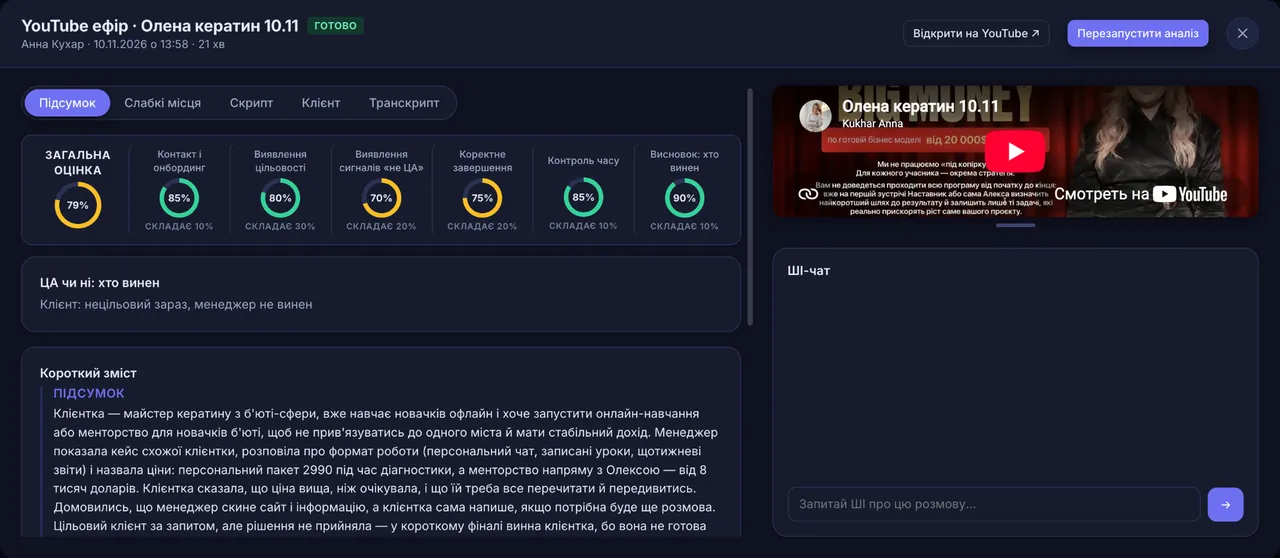
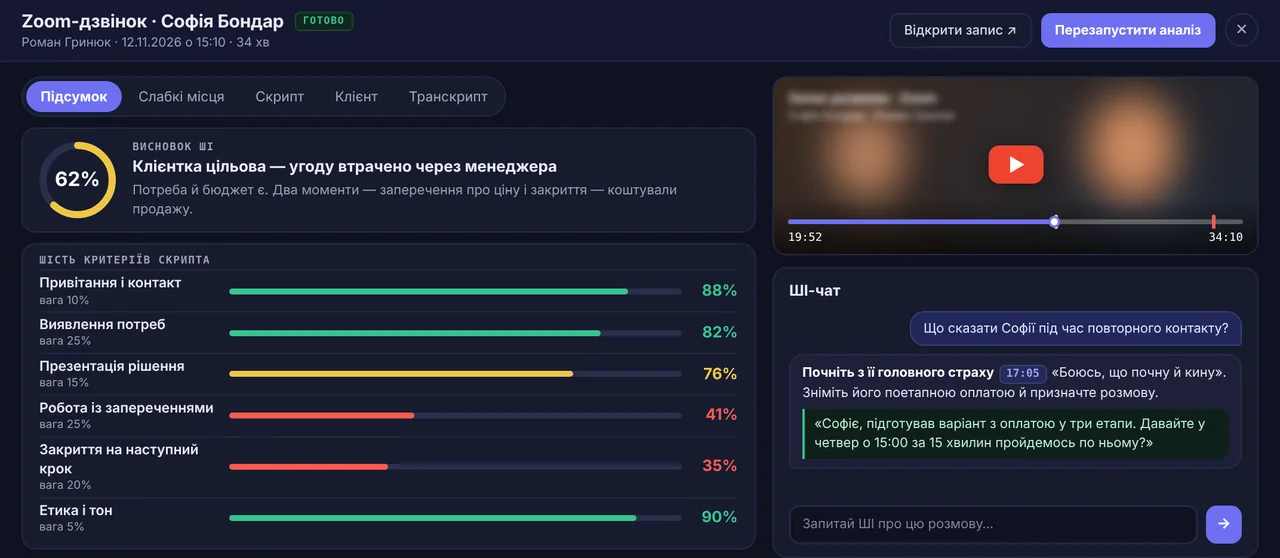
Замінено скріни на змодельовані дані, виправлено рух лупи, прибрано старі зображення з реальними іменами
Claude-Session: https://claude.ai/code/session_01QjK6nYwkpTHjCv4R5ViDVx

diff --git a/index.html b/index.html
@@ -103,7 +103,7 @@ html[data-lang=ru] .hero h1{font-size:clamp(36px,min(4.5vw,8.6vh),74px)}
 @keyframes stIn{from{opacity:0;transform:translateY(5px)}}
 /* call timeline */
 .tl{grid-column:1/-1;position:relative;height:38px;margin-top:8px;border-bottom:1px solid var(--line)}
-.tl::before{content:"";position:absolute;left:0;right:0;bottom:0;height:7px;background:linear-gradient(90deg,var(--line) 1px,transparent 1px) 0 0/calc(100%/22) 100%}
+.tl::before{content:"";position:absolute;left:0;right:0;bottom:0;height:7px;background:linear-gradient(90deg,var(--line) 1px,transparent 1px) 0 0/calc(100%/34) 100%}
 .tl span{position:absolute;bottom:11px;font:400 11px var(--f-mono);color:var(--muted);transform:translateX(-1px)}
 .tl .pin{bottom:0;top:auto;height:24px;width:1.5px;background:var(--accent);transform:none;transition:height .35s cubic-bezier(.2,.8,.2,1)}
 .tl .pin::after{content:attr(data-t);position:absolute;bottom:100%;left:50%;transform:translateX(-50%);font:500 11px var(--f-mono);color:var(--accent-text);padding-bottom:2px;white-space:nowrap}
@@ -389,20 +389,19 @@ footer .wrap{display:flex;justify-content:space-between;gap:16px;flex-wrap:wrap}
     </div>
     <div class="stage" id="stage">
       <div class="rig" id="rig">
-        <div class="sheet sheet-front"><img src="img/hero-weak.webp" srcset="img/hero-weak-900.webp 900w, img/hero-weak.webp 1543w" sizes="(max-width:940px) 100vw, 1100px" fetchpriority="high" decoding="async" width="1543" height="1084" data-uk="Картка розмови: слабкі місця з цитатами й таймкодами" alt="">
-          <i class="hp" data-hp="a1" style="left:23%;top:33.4%"></i><i class="hp" data-hp="a2" style="left:15%;top:51.9%"></i><i class="hp" data-hp="a3" style="left:54%;top:51.9%"></i>
-          <i class="hp" data-hp="b1" style="left:15%;top:88.2%"></i><i class="hp" data-hp="b2" style="left:47%;top:88.2%"></i>
+        <div class="sheet sheet-front"><img src="img/hero-weak.webp" srcset="img/hero-weak-900.webp 900w, img/hero-weak.webp 1543w" sizes="(max-width:940px) 100vw, 1100px" fetchpriority="high" decoding="async" width="1543" height="1084" data-uk="Слабкі місця розмови: цитата, таймкод і що сказати замість" alt="">
+          <i class="hp" data-hp="a1" style="left:3.1%;top:17.2%"></i><i class="hp" data-hp="a1e" style="left:49.2%;top:17.2%"></i><i class="hp" data-hp="a2" style="left:4.6%;top:34.8%"></i><i class="hp" data-hp="a2e" style="left:45%;top:34.8%"></i><i class="hp" data-hp="a3" style="left:51.1%;top:34.6%"></i><i class="hp" data-hp="a3e" style="left:91.6%;top:34.6%"></i><i class="hp" data-hp="b0" style="left:3.1%;top:49.8%"></i><i class="hp" data-hp="b0e" style="left:42.1%;top:49.8%"></i><i class="hp" data-hp="b1" style="left:4.6%;top:62.7%"></i><i class="hp" data-hp="b1e" style="left:43.9%;top:62.7%"></i><i class="hp" data-hp="b2" style="left:51.1%;top:64.1%"></i><i class="hp" data-hp="b2e" style="left:92.7%;top:64.1%"></i>
         </div>
       </div>
       <p class="status" aria-live="off">
-        <span class="st-0"><span lang="uk">Реальна картка розмови із системи.</span> <span class="hov"><span lang="uk">Наведіть курсор — лупа ваша.</span></span></span>
-        <span class="st-a"><b class="tc">19:52</b><span lang="uk">Клієнтка чекала меншої ціни — заперечення залишилось без уточнення.</span></span>
-        <span class="st-b"><b class="tc">21:02</b><span lang="uk">Домовленість — «скину сайт, а ви самі напишете». Наступний крок без дати.</span></span>
+        <span class="st-0"><span lang="uk">Приклад розбору на змодельованій розмові.</span> <span class="hov"><span lang="uk">Наведіть курсор — лупа ваша.</span></span></span>
+        <span class="st-a"><b class="tc">19:52</b><span lang="uk">Заперечення про ціну — менеджер одразу знизив ціну, не уточнивши.</span></span>
+        <span class="st-b"><b class="tc">31:40</b><span lang="uk">Розмова закінчилась на «напишу, коли вирішу». Наступний крок без дати.</span></span>
       </p>
     </div>
     <div class="tl" aria-hidden="true">
-      <span style="left:0">00:00</span><span style="left:22.727%">05:00</span><span style="left:45.455%">10:00</span><span style="left:68.182%">15:00</span>
-      <span class="pin pin-a" data-t="19:52" style="left:90.3%"></span><span class="pin pin-b" data-t="21:02" style="left:95.6%"></span>
+      <span style="left:0">00:00</span><span style="left:14.706%">05:00</span><span style="left:29.412%">10:00</span><span style="left:44.118%">15:00</span>
+      <span class="pin pin-a" data-t="19:52" style="left:58.4%"></span><span class="pin pin-b" data-t="31:40" style="left:93.1%"></span>
     </div>
   </div>
   <div class="mag" id="mag" aria-hidden="true"><div class="mag-view"><div class="mag-clone" id="magClone"></div></div><span class="mag-handle"></span><span class="mag-ring"></span></div>
@@ -421,7 +420,7 @@ footer .wrap{display:flex;justify-content:space-between;gap:16px;flex-wrap:wrap}
 
 <section class="sec" id="call"><div class="wrap">
   <div class="sec-head" data-rv><h2><span lang="uk">Одна розмова — п'ять відповідей</span></h2>
-    <p class="sec-intro"><span lang="uk">Це реальна картка із системи. Ліворуч — розбір, праворуч — запис розмови й ШІ-чат, якому можна поставити будь-яке питання про неї.</span></p></div>
+    <p class="sec-intro"><span lang="uk">Так виглядає картка розмови (приклад на змодельованих даних). Ліворуч — розбір, праворуч — запис розмови й ШІ-чат, якому можна поставити будь-яке питання про неї.</span></p></div>
   <div data-rv>
     <div class="vt" role="tablist" id="vt">
       <button role="tab" aria-selected="true"><span lang="uk">Підсумок</span></button>
@@ -432,11 +431,11 @@ footer .wrap{display:flex;justify-content:space-between;gap:16px;flex-wrap:wrap}
       <i class="ind" id="ind"></i>
     </div>
     <div class="vqa-box" id="vqa">
-      <div class="vqa on"><h3><span lang="uk">Як пройшла розмова і хто винен, що клієнт не купив?</span></h3><p><span lang="uk">Загальна оцінка, шість критеріїв з вагами і короткий зміст. Окремий висновок: провал менеджера чи нецільовий клієнт. Тут — 79%, клієнтка зараз нецільова, менеджер не винен.</span></p></div>
-      <div class="vqa"><h3><span lang="uk">Де саме менеджер недотиснув?</span></h3><p><span lang="uk">Кожна помилка з поясненням, порадою і дослівною цитатою. Тут дві: заперечення про ціну залишилось без уточнення (<span class="tc">19:52</span>) і наступний крок без конкретного часу (<span class="tc">21:02</span>).</span></p></div>
+      <div class="vqa on"><h3><span lang="uk">Як пройшла розмова і хто винен, що клієнт не купив?</span></h3><p><span lang="uk">Загальна оцінка, шість критеріїв з вагами і короткий зміст. Окремий висновок: провал менеджера чи нецільовий клієнт. Тут — 62%: клієнтка цільова, угоду втрачено через два моменти розмови.</span></p></div>
+      <div class="vqa"><h3><span lang="uk">Де саме менеджер недотиснув?</span></h3><p><span lang="uk">Кожна помилка з поясненням, порадою і дослівною цитатою. Тут дві: заперечення про ціну без уточнення (<span class="tc">19:52</span>) і наступний крок без конкретного часу (<span class="tc">31:40</span>). До кожної — готова фраза, що сказати замість.</span></p></div>
       <div class="vqa"><h3><span lang="uk">Що зі скрипта виконано, а що пропущено?</span></h3><p><span lang="uk">Оцінка за кожним критерієм вашого скрипта з його вагою. Клік по критерію показує, чому оцінка саме така.</span></p></div>
       <div class="vqa"><h3><span lang="uk">Що болить клієнту і чи готовий він купити?</span></h3><p><span lang="uk">Профіль клієнта, готовність до покупки і болі — кожна з цитатою й таймкодом. Готова основа для наступного дзвінка.</span></p></div>
-      <div class="vqa"><h3><span lang="uk">Що було сказано дослівно?</span></h3><p><span lang="uk">Повна розшифровка з таймкодами. На скріні той самий момент із ціною — <span class="tc">19:52</span>. Текст можна скопіювати або завантажити.</span></p></div>
+      <div class="vqa"><h3><span lang="uk">Що було сказано дослівно?</span></h3><p><span lang="uk">Повна розшифровка з таймкодами. У прикладі — момент із ціною — <span class="tc">19:52</span>. Текст можна скопіювати або завантажити.</span></p></div>
     </div>
     <div class="shot card-shot" id="shots">
       <img class="on" src="img/card-summary.webp" srcset="img/card-summary-1280.webp 1280w, img/card-summary.webp 2144w" sizes="(max-width:940px) 1300px, 1124px" loading="lazy" decoding="async" width="2144" height="935" data-uk="Картка розмови, вкладка «Підсумок»: оцінки за критеріями, запис і ШІ-чат" alt="">
@@ -463,7 +462,7 @@ footer .wrap{display:flex;justify-content:space-between;gap:16px;flex-wrap:wrap}
   </div>
   <div data-rv>
     <div class="shot chat-shot"><img src="img/ai-chat.webp" srcset="img/ai-chat-720.webp 720w, img/ai-chat.webp 1112w" sizes="(max-width:940px) 92vw, 560px" width="1112" height="1004" loading="lazy" decoding="async" data-uk="ШІ-чат: питання українською і відповідь з цитатами та таймкодами" alt=""></div>
-    <p class="chat-note"><span lang="uk">Приклад із системи: питання й відповідь ШІ по одній із розмов.</span></p>
+    <p class="chat-note"><span lang="uk">Приклад: питання й відповідь ШІ по змодельованій розмові.</span></p>
   </div>
 </div></section>
 
@@ -645,11 +644,18 @@ footer .wrap{display:flex;justify-content:space-between;gap:16px;flex-wrap:wrap}
   var seq=[
     {k:'ph',fx:.14,z:1.42,st:'0',move:1000,hold:250},
     {k:'ph',fx:.86,z:1.42,st:'0',move:1900,hold:400},
-    {k:'a1',fx:0,z:2,st:'a',move:1300,hold:900},
-    {k:'a2',fx:0,z:2,st:'a',move:700,hold:150},
-    {k:'a3',fx:0,z:2,st:'a',move:2100,hold:600},
-    {k:'b1',fx:0,z:2,st:'b',move:1200,hold:200},
-    {k:'b2',fx:0,z:2,st:'b',move:1900,hold:900}
+    {k:'a1',fx:0,z:2,st:'a',move:1100,hold:150},
+    {k:'a1e',fx:0,z:2,st:'a',move:1700,hold:300},
+    {k:'a2',fx:0,z:2,st:'a',move:900,hold:100},
+    {k:'a2e',fx:0,z:2,st:'a',move:1500,hold:300},
+    {k:'a3',fx:0,z:2,st:'a',move:700,hold:100},
+    {k:'a3e',fx:0,z:2,st:'a',move:1600,hold:500},
+    {k:'b0',fx:0,z:2,st:'b',move:1300,hold:150},
+    {k:'b0e',fx:0,z:2,st:'b',move:1600,hold:300},
+    {k:'b1',fx:0,z:2,st:'b',move:800,hold:100},
+    {k:'b1e',fx:0,z:2,st:'b',move:1500,hold:300},
+    {k:'b2',fx:0,z:2,st:'b',move:700,hold:100},
+    {k:'b2e',fx:0,z:2,st:'b',move:1700,hold:900}
   ];
   var narrow=window.matchMedia?matchMedia('(max-width:940px)'):{matches:false};
   function next(i){do{i=(i+1)%seq.length}while(narrow.matches&&seq[i].k==='ph');return i}
@@ -663,7 +669,7 @@ footer .wrap{display:flex;justify-content:space-between;gap:16px;flex-wrap:wrap}
     clone.style.transform='translate('+(R-(cur.x-ox)*cur.z)+'px,'+(R-(cur.y-oy)*cur.z)+'px) scale('+cur.z+')';
   }
   function nearest(hr){var best='0',bd=130;
-    [['a','a1'],['a','a2'],['a','a3'],['b','b1'],['b','b2']].forEach(function(p){var q=pt(hp(p[1]),0,hr),d=Math.hypot(q.x-cur.x,q.y-cur.y);if(d<bd){bd=d;best=p[0]}});
+    [['a','a1'],['a','a1e'],['a','a2'],['a','a2e'],['a','a3'],['a','a3e'],['b','b0'],['b','b0e'],['b','b1'],['b','b1e'],['b','b2'],['b','b2e']].forEach(function(p){var q=pt(hp(p[1]),0,hr),d=Math.hypot(q.x-cur.x,q.y-cur.y);if(d<bd){bd=d;best=p[0]}});
     return best}
   function frame(now){
     if(!running)return;
@@ -686,7 +692,7 @@ footer .wrap{display:flex;justify-content:space-between;gap:16px;flex-wrap:wrap}
   }
   function run(){if(running||!started||!visible||document.hidden)return;running=true;requestAnimationFrame(function(n){last=n;from={x:cur.x,y:cur.y,z:cur.z};t0=n;frame(n)})}
   function stop(){running=false}
-  function place(){var hr=hero.getBoundingClientRect(),a=pt(hp('a2'),0,hr),b=pt(hp('a3'),0,hr);cur.x=(a.x+b.x)/2;cur.y=a.y;cur.z=2;hero.dataset.st='a';draw(hr)}
+  function place(){var hr=hero.getBoundingClientRect(),a=pt(hp('a1'),0,hr),b=pt(hp('a1e'),0,hr);cur.x=(a.x+b.x)/2;cur.y=a.y;cur.z=2;hero.dataset.st='a';draw(hr)}
   function start(){
     build();if(narrow.matches)idx=2;var hr=hero.getBoundingClientRect(),f=target(seq[idx],hr);
     cur.x=from.x=f.x;cur.y=from.y=f.y-10;started=true;mag.classList.add('on');
